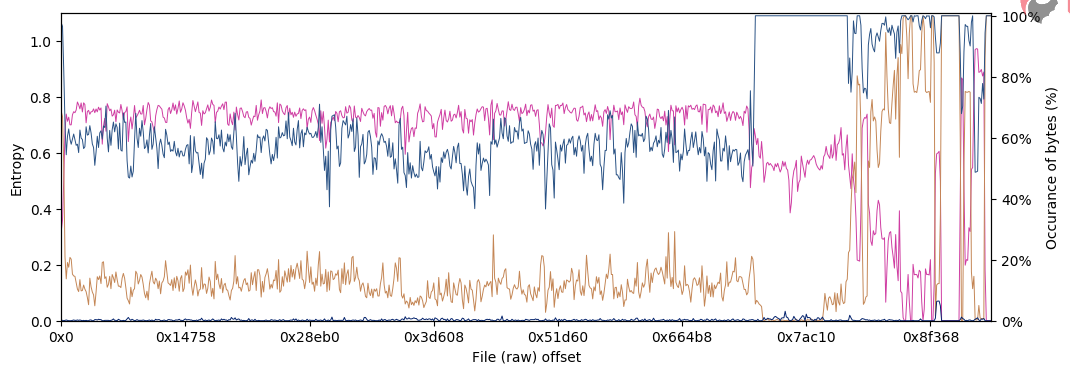
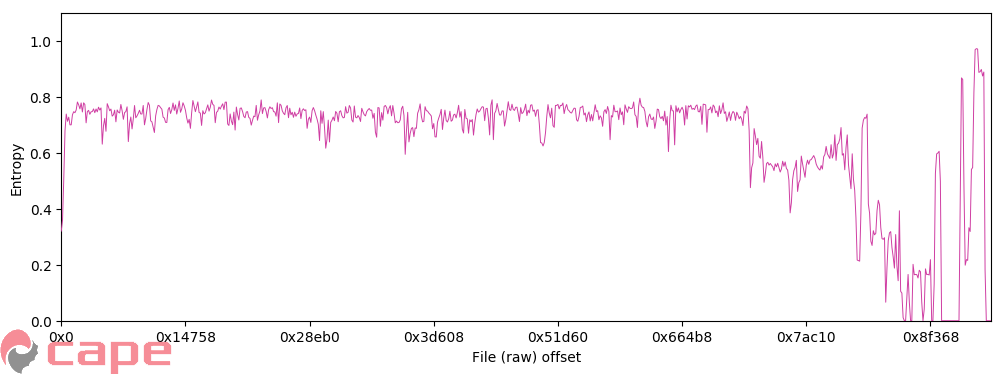
Working PE w/o virtual address

Changed region(s): [[0.0, 0.0, 1.0, 1.0], [0.0926, 0.4412, 0.1235, 0.4706]]

diff --git a/exeGraph_mpl.py b/exeGraph_mpl.py
@@ -45,7 +45,6 @@ def section_colour(text, multi=False):
     else:
         return colour_main
 
-
 # Some samples may have a corrupt section name (e.g. 206c0533ce9bf83ecdf904bec2f3532d)
 def fix_section_name(section, index):
         s_name = section.name
@@ -61,7 +60,6 @@ def get_chunk(fh, chunksize=8192):
             yield list(chunk)
         else:
             break
-
 
 # ## Ent per section
 def section_ent_line(pebin, block_size=100, trend=False):
@@ -174,7 +172,6 @@ def section_byte_occurance_histogram(pebin, fig, ncols=2, ignore_0=True, bins=1,
 
     fig.legend(loc='center left', bbox_to_anchor=(1, 0.5))
 
-
 # ## Entropy and byte occurance analysis
 # binname: file to load and analyse
 # figsize: specify size of the figure ouputted
@@ -192,13 +189,13 @@ def file_ent(binname, frmt='png', figname=None, figsize=(12,4), chunks=750, ibyt
 
     fh = open(binname, 'rb')
 
-    # Calculate the overall chunksize 
+    # # Calculate the overall chunksize 
     fs = os.fstat(fh.fileno()).st_size
     chunksize = -(-fs // chunks)
 
     shannon_samples = []
 
-    # Create byte occurance dict if required
+    # # Create byte occurance dict if required
     if len(ibytes) > 0:
         byte_ranges = {key: [] for key in ibytes.keys()}
 
@@ -206,14 +203,14 @@ def file_ent(binname, frmt='png', figname=None, figsize=(12,4), chunks=750, ibyt
     prev_ent = 0
     for chunk in get_chunk(fh, chunksize=chunksize):
 
-        # Calculate ent
+        # # Calculate ent
         real_ent = shannon_ent(chunk)
         ent = statistics.median([real_ent, prev_ent])
         prev_ent = real_ent
         ent = real_ent
         shannon_samples.append(ent)
 
-        # Calculate percentages of given bytes, if provided
+        # # Calculate percentages of given bytes, if provided
         if len(ibytes) > 0:
             cbytes = Counter(chunk)
             for label, b_range in ibytes.items():
@@ -226,7 +223,7 @@ def file_ent(binname, frmt='png', figname=None, figsize=(12,4), chunks=750, ibyt
 
 
 
-    # Draw the graphs in order
+    # # Draw the graphs in order
     zorder=99
 
     fig, axEnt = plt.subplots(figsize=figsize)
@@ -240,7 +237,7 @@ def file_ent(binname, frmt='png', figname=None, figsize=(12,4), chunks=750, ibyt
     axEnt.set_xlabel('File (raw) offset')
     axEnt.xaxis.set_major_formatter(ticker.FuncFormatter(lambda x, pos: ('0x%x') % (int(chunksize * x))))
 
-    # Plot the individual byte percents
+    # # Plot the individual byte percents
     if len(ibytes) > 0:
         axBytePc = axEnt.twinx()
         axBytePc.set_ylim([0, 101])
@@ -253,37 +250,39 @@ def file_ent(binname, frmt='png', figname=None, figsize=(12,4), chunks=750, ibyt
             axBytePc.plot(percentages, label=label, c=c, zorder=zorder, linewidth=0.7)
 
 
-    # Filetype specific additions
-    exebin = lief.parse(filepath=filename)
+    # # Filetype specific additions
+    try:
+        exebin = lief.parse(filepath=filename)
+    except Exception as e:
+        exebin = None
+
     if type(exebin) == lief.PE.Binary:
 
-        # Set the virtual size axis
-        axPEvirt = axEnt.twiny()
-        axPEvirt.set_xlim([0,exebin.virtual_size+0x0400000])
-        axPEvirt.set_xlabel('Base address (virtual)')
-        axPEvirt.xaxis.set_major_formatter(ticker.FuncFormatter(lambda x, pos: ('0x%x') % (int(x+0x0400000))))
+        # # Entrypoint (EP) pointer and vline
+        v_ep = exebin.optional_header.addressof_entrypoint/chunksize
+        axEnt.axvline(x=v_ep, linestyle='--', c='r')
+        axEnt.text(x=v_ep, y=1.05, s='EP', rotation=90)
+
+        # # Section vlines
+        for section in exebin.sections:
+            raw_section_offset = section.pointerto_raw_data/chunksize
+            axEnt.axvline(x=raw_section_offset, label=section.name, linestyle='--')
+            axEnt.text(x=raw_section_offset, y=1.05, s=section.name, rotation=90)
 
 
-    #     # # entrypoint pointer and line
-    #     ep = exebin.entrypoint
-    #     ep_x = -(-ep // exebin.virtual_size)
-
-    #     axEnt.axvline(x=exebin.virtual_size/750, linestyle='--', c=section_colour('EP'))
-    #     axEnt.text(x=exebin.virtual_size/750, y=1.05, s='EP', rotation=90)
-
-
-    #     for section in exebin.sections:
-
-    #         axEnt.axvline(x=section.pointerto_raw_data/750, label=section.name, linestyle='--')
-    #         axEnt.text(x=section.pointerto_raw_data/750, y=1.05, s=section.name, rotation=90)
+        # # Set the virtual size axis
+        # axPEvirt = axEnt.twiny()
+        # axPEvirt.set_xlim([exebin.optional_header.imagebase, exebin.optional_header.imagebase+exebin.optional_header.sizeof_image])
+        # axPEvirt.set_xlabel('Base address (virtual)')
+        # axPEvirt.xaxis.set_major_formatter(ticker.FuncFormatter(lambda x, pos: ('0x%x') % (int(x))))
 
 
     else:
-        print('not_pe')
+        pass # NOT PE
 
 
 
-    # Customise the plt
+    # # Customise the plt
     # plt.axis([0,len(shannon_samples)-1, 0,1])
     # plt.xlabel('Raw offset')
     # plt.ylabel('Entropy')
@@ -292,7 +291,7 @@ def file_ent(binname, frmt='png', figname=None, figsize=(12,4), chunks=750, ibyt
 
 
     logo = plt.imread('cape.png')
-    fig.figimage(logo, 1020, 350, alpha=.5, zorder=99)
+    fig.figimage(logo, alpha=.5, zorder=99)
 
     plt.savefig(fname=figname, format=frmt, bbox_inches='tight')
 
@@ -300,15 +299,17 @@ def file_ent(binname, frmt='png', figname=None, figsize=(12,4), chunks=750, ibyt
 if __name__ == '__main__':
 
     # ## Input file
-    filename='mal/aa14c8e777-cape'
+    # filename='mal/aa14c8e777-cape'
     # filename='mal/test.exe'
     # filename='mal/Locky.bin.mal'
     # filename='mal/Shamoon-bin.mal'
     # filename='mal/Win32.Sofacy.A.bin.mal'
-    # filename='mal/upxed.exe'
+    filename='mal/upxed.exe'
     # filename='mal/cape-9480-d746baede2c7'
     filename='mal/cape-9472-d69be688e'
-    # filename='/bin/bash'
+    filename='/bin/bash'
+    # filename='mal/bytehist.exe'
+    # filename='section_byte_occurance_histogram.png'
 
 
 
@@ -332,6 +333,5 @@ if __name__ == '__main__':
 
 
 
-    file_ent(binname=filename)
-
+    file_ent(binname=filename, ibytes=[])
     plt.show()
